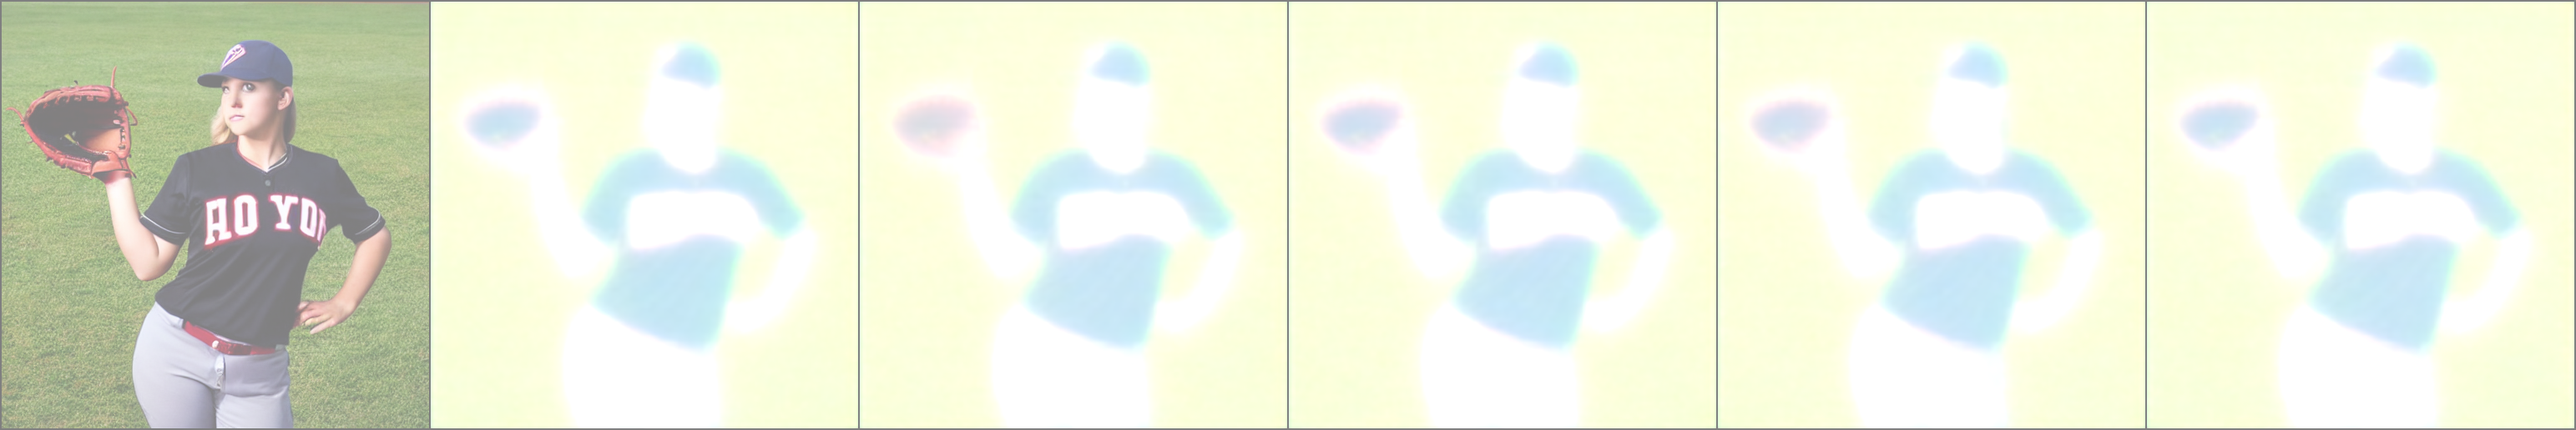
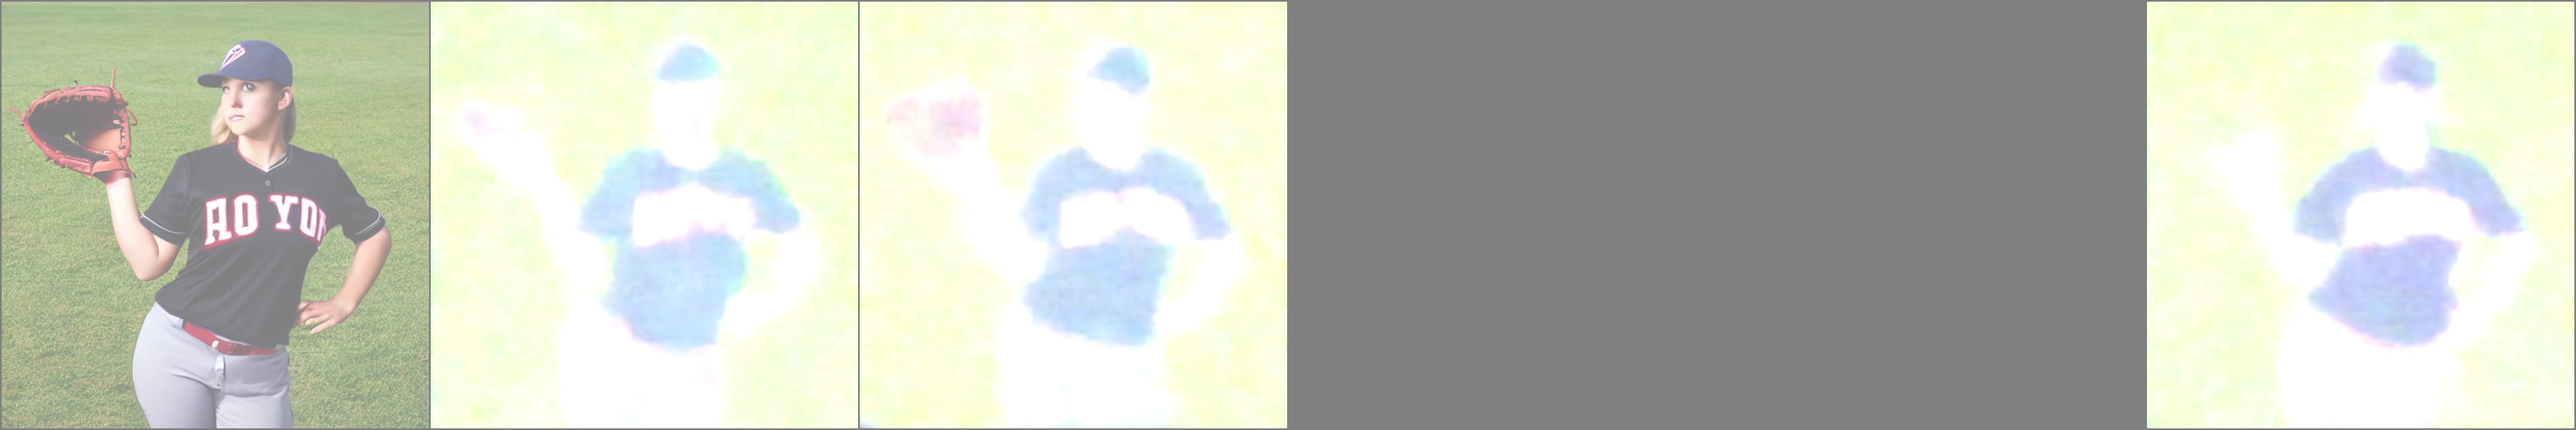
More changes

diff --git a/SD1_5/construct_ms_dataset.py b/SD1_5/construct_ms_dataset.py
@@ -64,10 +64,9 @@ def compute_minority_scores(args, dataset, pipe, loss_fn):
             image_losses = th.zeros(args.n_iter)
             reconstructed_images = []
 
-            print(pipe._num_timesteps)
             for i in range(args.n_iter):
                 latents = pipe.vae.encode(image).latent_dist.sample().detach() 
-                timestep = 50#int(0.9 * pipe.scheduler.config.num_train_timesteps)
+                timestep = 900#int(0.9 * pipe.scheduler.config.num_train_timesteps)
                 timesteps = th.tensor([timestep], dtype=th.long).to(dist_util.dev())
                 noise = th.randn_like(latents)
                 noisy_latents = pipe.scheduler.add_noise(latents, noise, timesteps)
